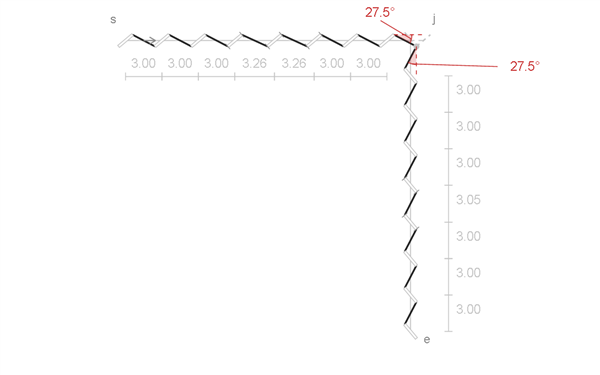
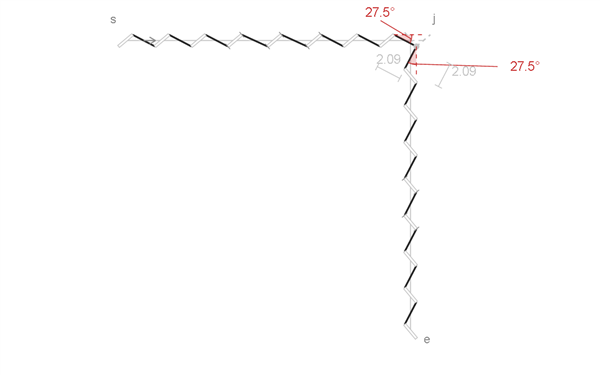
Clarify Autostitch corner construction and remove arm dimensions

diff --git a/examples/illustrated/README.md b/examples/illustrated/README.md
@@ -63,7 +63,7 @@ Bridge translates the vertical run between visible thread lengths of $2.00\,\mat
 
 The mirrored treatment reuses `diagonalCornerScene` with the Sellier construction parameters from `ILL-SELLIER-CORNER`, extended to the common arm lengths. Its rows stay nominal from the outer endpoints; only the final gaps into the vertex slit absorb the residuals. These are approximately $2.472\,\mathrm{mm}$ and $2.954\,\mathrm{mm}$; the first is below the Autostitch gap bound. Total absolute adjustment matches A6, but the adjusted-gap count does not. Both rows are present in the first frame; the vertical row immediately mirrors in place before the shared diagonal slit appears. Omit arm gap dimensions. Show only the two visible corner-thread lengths and red thread angles when the thread appears; length dimensions lighten with the slits.
 
-The Autostitch solution starts with nominal rows anchored at the original outer endpoints. Its virtual slits continue the nominal rows one pitch beyond their last real slits; they are not centred on the vertex. Move the terminal virtuals and their nominally spaced real neighbours until the selected tips meet (A6), then fit the free spans while keeping the outer endpoints, neighbours and hole fixed. Gap values update; provisional gaps outside the bounds are red. The final incoming arm has two $3.264\,\mathrm{mm}$ adjusted gaps; the outgoing arm has one $3.046\,\mathrm{mm}$ adjusted gap. `I` marks identify them. Reveal the thread together and hold for four seconds.
+The Autostitch solution starts with nominal rows anchored at the original outer endpoints. Its virtual slits continue the nominal rows one pitch beyond their last real slits; they are not centred on the vertex. Move the terminal virtuals and their nominally spaced real neighbours until the selected tips meet (A6), then fit the free spans while keeping the outer endpoints, neighbours and hole fixed. Omit arm gap dimensions throughout; show only the two corner thread lengths and red angles with the final thread. The final incoming arm has two $3.264\,\mathrm{mm}$ adjusted gaps; the outgoing arm has one $3.046\,\mathrm{mm}$ adjusted gap. `I` marks identify them. Reveal the thread together and hold for four seconds.
 
 ![Resolve the virtual crossing and fit both arms](assets/problem-corner-autostitch.gif)
 

diff --git a/docs/PITCH_skeleton.md b/docs/PITCH_skeleton.md
@@ -117,10 +117,10 @@
 
 ![Autostitch aligns virtual slit tips and fits the remaining arm spans](../examples/illustrated/assets/problem-corner-autostitch.gif)
 
-- Shared round hole where the terminal virtual slit tips meet
-- Consistent lean throughout; bounded pitch adjustments centred within each free span
-- Hole offset from the guide vertex
-- Preserves the arm lean and bounds each pitch change, using three adjusted gaps instead of the diagonal slit's two
+- Place the incoming row's pitch adjustments so its terminal virtual slit lands at the required offset past the vertical guide
+- Slit length, lean and guide directions determine that offset; the selected tips of both virtual slits meet at one round hole
+- The vertical guide fixes the outgoing arm's direction. With nominal corner steps, the entering and leaving thread both meet their guides at $27.5^\circ$
+- Keep slit lean consistent and absorb the residual within the arm spans; the shared hole sits off the guide vertex
 
 | Treatment | Number of adjusted gaps | Absolute adjustment ($\mathrm{mm}$) | Absolute stitch-length deviation ($\mathrm{mm}$) |
 | --- | ---: | ---: | ---: |
